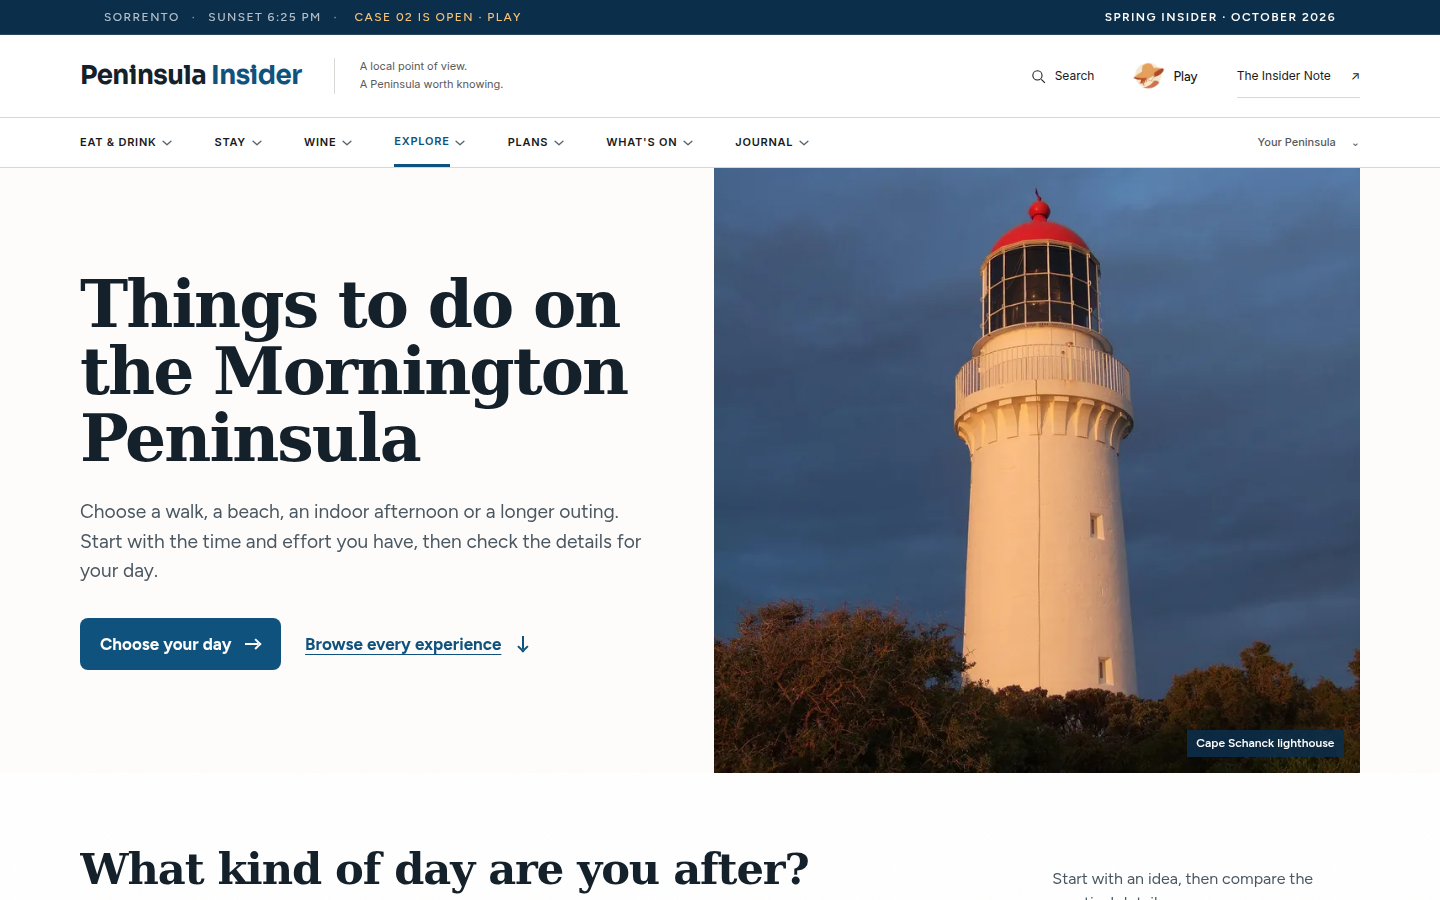
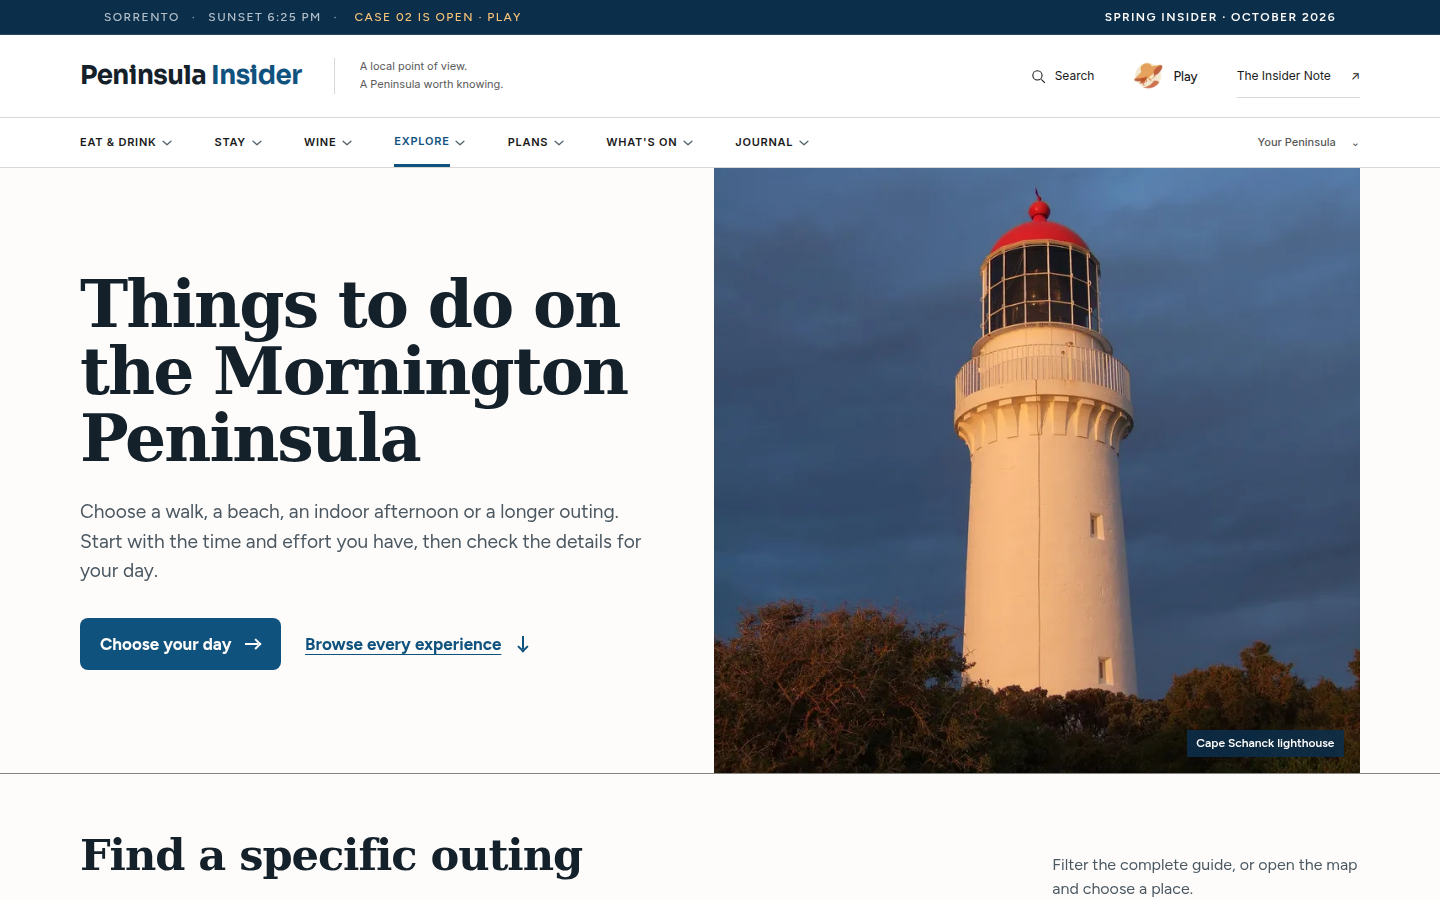
Keep Explore filters within mobile first view
The Explore filter now appears before editorial choices on mobile. The previously failed discovery journey passed 13/13 locally and all rebased PR checks passed.

Changed region(s): [[0.0625, 0.9333, 0.5625, 0.9956], [0.7188, 0.9333, 0.9375, 1.0], [0.7812, 0.0622, 0.8125, 0.0933]]

diff --git a/reports/explore-design-rubric-2026-10-01.md b/reports/explore-design-rubric-2026-10-01.md
@@ -63,3 +63,6 @@ Scores are earned from rendered desktop (1440 px), tablet (768 px), and mobile (
 - The project Impeccable detector returned no additional design flags.
 - [Desktop first view](explore-design/desktop-1440.png), [mobile first view](explore-design/mobile-390.png), and [mobile choice grid](explore-design/mobile-choices-390.png).
 - `npm run check` still reports 136 repository-wide errors; none are in `src/pages/explore/index.astro`. The existing inline JSON-LD hints remain.
+## Deployment-gate iteration
+
+The first main-branch deployment stopped before publication because its mobile discovery journey found the Explore filter below 750 px. That temporarily reduced the review score to 94/100: choice architecture and release integrity were not yet satisfied. The corrective pass moved the existing filter ahead of the editorial choices and compacted its mobile heading. On the fresh preview, the filter starts at 613 px at 390 px width and 668 px at 320 px width. The exact `npm run test:discovery-journeys` release gate passes 13/13 on a fresh production build. The 99/100 design review is restored for this corrected candidate; public deployment still requires its own verification.
